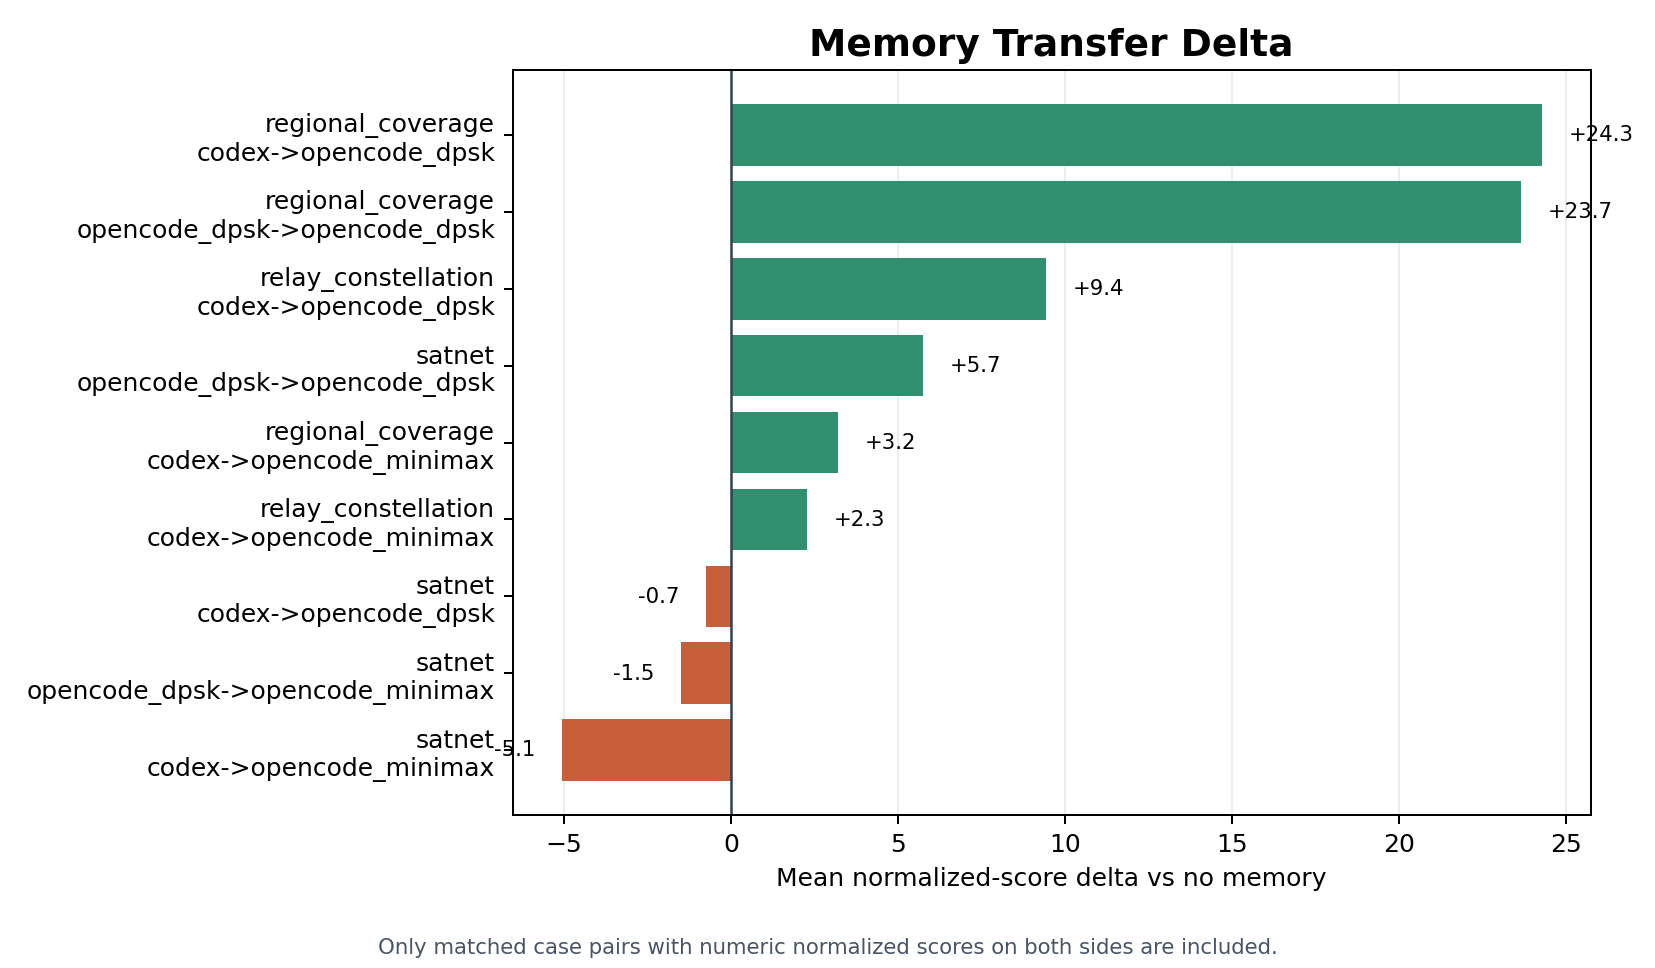
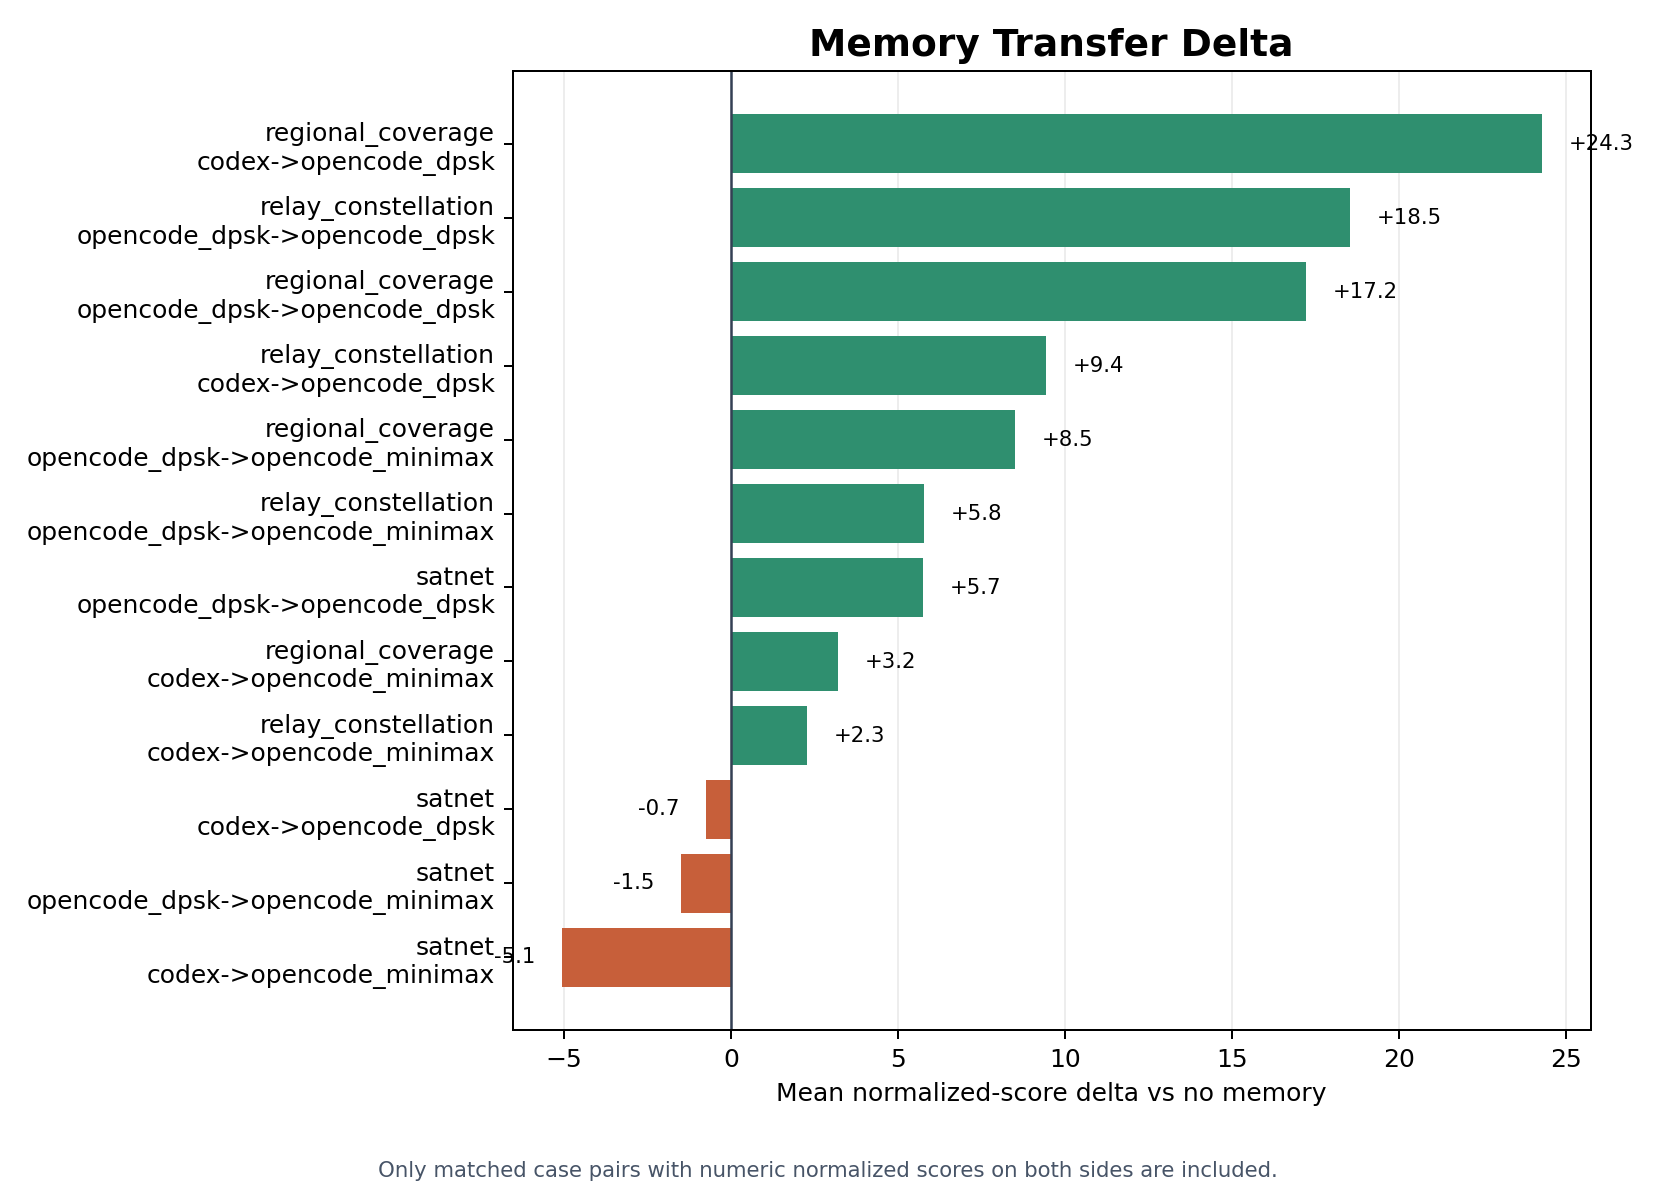
Finish memory_accumulation experiment

diff --git a/experiments/memory_accumulation/reports/relay_constellation.md b/experiments/memory_accumulation/reports/relay_constellation.md
@@ -15,8 +15,8 @@ Generated from the current `memory_accumulation` aggregate artifacts.
 | none | opencode_dpsk | 5 | 5 | 0 | 5 | 35.67 | success: 5 |
 | none | opencode_minimax | 5 | 5 | 0 | 4 | 0.0000 | success: 4, verifier_invalid: 1 |
 | opencode_dpsk | codex | 5 | 0 | 5 | 0 | 0.0000 | missing_artifact: 5 |
-| opencode_dpsk | opencode_dpsk | 5 | 0 | 5 | 0 | 0.0000 | missing_artifact: 5 |
-| opencode_dpsk | opencode_minimax | 5 | 0 | 5 | 0 | 0.0000 | missing_artifact: 5 |
+| opencode_dpsk | opencode_dpsk | 5 | 5 | 0 | 5 | 54.19 | success: 5 |
+| opencode_dpsk | opencode_minimax | 5 | 5 | 0 | 3 | 5.7833 | no_solution: 1, success: 3, verifier_invalid: 1 |
 | opencode_minimax | codex | 5 | 0 | 5 | 0 | 0.0000 | missing_artifact: 5 |
 | opencode_minimax | opencode_dpsk | 5 | 0 | 5 | 0 | 0.0000 | missing_artifact: 5 |
 | opencode_minimax | opencode_minimax | 5 | 0 | 5 | 0 | 0.0000 | missing_artifact: 5 |
@@ -60,16 +60,16 @@ Generated from the current `memory_accumulation` aggregate artifacts.
 | opencode_dpsk | codex | test | case_0003 | missing_artifact | missing_artifact | missing_artifact | - | - | 0 | - | - | - | - | - |
 | opencode_dpsk | codex | test | case_0004 | missing_artifact | missing_artifact | missing_artifact | - | - | 0 | - | - | - | - | - |
 | opencode_dpsk | codex | test | case_0005 | missing_artifact | missing_artifact | missing_artifact | - | - | 0 | - | - | - | - | - |
-| opencode_dpsk | opencode_dpsk | test | case_0001 | missing_artifact | missing_artifact | missing_artifact | - | - | 0 | - | - | - | - | - |
-| opencode_dpsk | opencode_dpsk | test | case_0002 | missing_artifact | missing_artifact | missing_artifact | - | - | 0 | - | - | - | - | - |
-| opencode_dpsk | opencode_dpsk | test | case_0003 | missing_artifact | missing_artifact | missing_artifact | - | - | 0 | - | - | - | - | - |
-| opencode_dpsk | opencode_dpsk | test | case_0004 | missing_artifact | missing_artifact | missing_artifact | - | - | 0 | - | - | - | - | - |
-| opencode_dpsk | opencode_dpsk | test | case_0005 | missing_artifact | missing_artifact | missing_artifact | - | - | 0 | - | - | - | - | - |
-| opencode_dpsk | opencode_minimax | test | case_0001 | missing_artifact | missing_artifact | missing_artifact | - | - | 0 | - | - | - | - | - |
-| opencode_dpsk | opencode_minimax | test | case_0002 | missing_artifact | missing_artifact | missing_artifact | - | - | 0 | - | - | - | - | - |
-| opencode_dpsk | opencode_minimax | test | case_0003 | missing_artifact | missing_artifact | missing_artifact | - | - | 0 | - | - | - | - | - |
-| opencode_dpsk | opencode_minimax | test | case_0004 | missing_artifact | missing_artifact | missing_artifact | - | - | 0 | - | - | - | - | - |
-| opencode_dpsk | opencode_minimax | test | case_0005 | missing_artifact | missing_artifact | missing_artifact | - | - | 0 | - | - | - | - | - |
+| opencode_dpsk | opencode_dpsk | test | case_0001 | present | success | valid | true | 7200.7 | 52.79 | 0.8611 | 0.4333 | 3 | 158.7 | 275.4 |
+| opencode_dpsk | opencode_dpsk | test | case_0002 | present | success | valid | true | 7200.4 | 65.36 | 0.9635 | 0.8444 | 6 | 128.5 | 227.9 |
+| opencode_dpsk | opencode_dpsk | test | case_0003 | present | success | valid | true | 7200.5 | 64.98 | 0.9489 | 0.8667 | 7 | 133.6 | 186.0 |
+| opencode_dpsk | opencode_dpsk | test | case_0004 | present | success | valid | true | 6594.2 | 42.31 | 0.7037 | 0.3067 | 4 | 147.5 | 193.0 |
+| opencode_dpsk | opencode_dpsk | test | case_0005 | present | success | valid | true | 7200.5 | 45.52 | 0.6866 | 0.5417 | 4 | 264.7 | 452.1 |
+| opencode_dpsk | opencode_minimax | test | case_0001 | present | success | valid | true | 5902.0 | 0 | 0 | 0 | 3 | - | - |
+| opencode_dpsk | opencode_minimax | test | case_0002 | present | success | valid | true | 5906.1 | 28.92 | 0.5508 | 0 | 3 | 114.0 | 150.4 |
+| opencode_dpsk | opencode_minimax | test | case_0003 | present | no_solution | no_solution | false | 104.9 | 0 | - | - | - | - | - |
+| opencode_dpsk | opencode_minimax | test | case_0004 | present | success | valid | true | 5472.9 | 0 | 0 | 0 | 3 | - | - |
+| opencode_dpsk | opencode_minimax | test | case_0005 | present | verifier_invalid | invalid | false | 5773.9 | 0 | 0 | 0 | 3 | - | - |
 | opencode_minimax | codex | test | case_0001 | missing_artifact | missing_artifact | missing_artifact | - | - | 0 | - | - | - | - | - |
 | opencode_minimax | codex | test | case_0002 | missing_artifact | missing_artifact | missing_artifact | - | - | 0 | - | - | - | - | - |
 | opencode_minimax | codex | test | case_0003 | missing_artifact | missing_artifact | missing_artifact | - | - | 0 | - | - | - | - | - |

diff --git a/experiments/memory_accumulation/reports/regional_coverage.md b/experiments/memory_accumulation/reports/regional_coverage.md
@@ -15,8 +15,8 @@ Generated from the current `memory_accumulation` aggregate artifacts.
 | none | opencode_dpsk | 5 | 5 | 0 | 5 | 35.79 | success: 5 |
 | none | opencode_minimax | 5 | 5 | 0 | 5 | 17.73 | success: 5 |
 | opencode_dpsk | codex | 5 | 0 | 5 | 0 | 0.0000 | missing_artifact: 5 |
-| opencode_dpsk | opencode_dpsk | 5 | 2 | 3 | 2 | 24.63 | missing_artifact: 3, success: 2 |
-| opencode_dpsk | opencode_minimax | 5 | 0 | 5 | 0 | 0.0000 | missing_artifact: 5 |
+| opencode_dpsk | opencode_dpsk | 5 | 5 | 0 | 5 | 53.00 | success: 5 |
+| opencode_dpsk | opencode_minimax | 5 | 5 | 0 | 5 | 26.23 | success: 5 |
 | opencode_minimax | codex | 5 | 0 | 5 | 0 | 0.0000 | missing_artifact: 5 |
 | opencode_minimax | opencode_dpsk | 5 | 0 | 5 | 0 | 0.0000 | missing_artifact: 5 |
 | opencode_minimax | opencode_minimax | 5 | 0 | 5 | 0 | 0.0000 | missing_artifact: 5 |
@@ -60,16 +60,16 @@ Generated from the current `memory_accumulation` aggregate artifacts.
 | opencode_dpsk | codex | test | case_0003 | missing_artifact | missing_artifact | missing_artifact | - | - | 0 | - | - | - | - |
 | opencode_dpsk | codex | test | case_0004 | missing_artifact | missing_artifact | missing_artifact | - | - | 0 | - | - | - | - |
 | opencode_dpsk | codex | test | case_0005 | missing_artifact | missing_artifact | missing_artifact | - | - | 0 | - | - | - | - |
-| opencode_dpsk | opencode_dpsk | test | case_0001 | missing_artifact | missing_artifact | missing_artifact | - | - | 0 | - | - | - | - |
+| opencode_dpsk | opencode_dpsk | test | case_0001 | present | success | valid | true | 7200.7 | 32.95 | 0.2728 | 0.2638 | 38 | 492.9 |
 | opencode_dpsk | opencode_dpsk | test | case_0002 | present | success | valid | true | 2619.1 | 59.86 | 0.7722 | 0.7738 | 64 | 496.7 |
 | opencode_dpsk | opencode_dpsk | test | case_0003 | present | success | valid | true | 7200.7 | 63.28 | 0.8058 | 0.8060 | 59 | 493.1 |
-| opencode_dpsk | opencode_dpsk | test | case_0004 | missing_artifact | missing_artifact | missing_artifact | - | - | 0 | - | - | - | - |
-| opencode_dpsk | opencode_dpsk | test | case_0005 | missing_artifact | missing_artifact | missing_artifact | - | - | 0 | - | - | - | - |
-| opencode_dpsk | opencode_minimax | test | case_0001 | missing_artifact | missing_artifact | missing_artifact | - | - | 0 | - | - | - | - |
-| opencode_dpsk | opencode_minimax | test | case_0002 | missing_artifact | missing_artifact | missing_artifact | - | - | 0 | - | - | - | - |
-| opencode_dpsk | opencode_minimax | test | case_0003 | missing_artifact | missing_artifact | missing_artifact | - | - | 0 | - | - | - | - |
-| opencode_dpsk | opencode_minimax | test | case_0004 | missing_artifact | missing_artifact | missing_artifact | - | - | 0 | - | - | - | - |
-| opencode_dpsk | opencode_minimax | test | case_0005 | missing_artifact | missing_artifact | missing_artifact | - | - | 0 | - | - | - | - |
+| opencode_dpsk | opencode_dpsk | test | case_0004 | present | success | valid | true | 7200.9 | 57.26 | 0.7325 | 0.7376 | 64 | 496.6 |
+| opencode_dpsk | opencode_dpsk | test | case_0005 | present | success | valid | true | 7200.6 | 51.66 | 0.6777 | 0.6496 | 64 | 487.6 |
+| opencode_dpsk | opencode_minimax | test | case_0001 | present | success | valid | true | 7192.5 | 12.10 | 0.0526 | 0.0567 | 64 | 492.9 |
+| opencode_dpsk | opencode_minimax | test | case_0002 | present | success | valid | true | 5097.6 | 45.23 | 0.4202 | 0.4203 | 21 | 496.7 |
+| opencode_dpsk | opencode_minimax | test | case_0003 | present | success | valid | true | 4195.8 | 8.7346 | 0.0049 | 0.0049 | 52 | 483.5 |
+| opencode_dpsk | opencode_minimax | test | case_0004 | present | success | valid | true | 7200.4 | 20.73 | 0 | 0 | 0 | 496.6 |
+| opencode_dpsk | opencode_minimax | test | case_0005 | present | success | valid | true | 5482.8 | 44.34 | 0.4342 | 0.3930 | 20 | 494.0 |
 | opencode_minimax | codex | test | case_0001 | missing_artifact | missing_artifact | missing_artifact | - | - | 0 | - | - | - | - |
 | opencode_minimax | codex | test | case_0002 | missing_artifact | missing_artifact | missing_artifact | - | - | 0 | - | - | - | - |
 | opencode_minimax | codex | test | case_0003 | missing_artifact | missing_artifact | missing_artifact | - | - | 0 | - | - | - | - |

diff --git a/experiments/memory_accumulation/reports/overview.md b/experiments/memory_accumulation/reports/overview.md
@@ -23,8 +23,8 @@ Generated from the current `memory_accumulation` aggregate artifacts.
 | none | opencode_dpsk | 15 | 15 | 0 | 15 | 43.90 | success: 15 |
 | none | opencode_minimax | 15 | 15 | 0 | 13 | 18.42 | success: 13, verifier_invalid: 2 |
 | opencode_dpsk | codex | 15 | 0 | 15 | 0 | 0.0000 | missing_artifact: 15 |
-| opencode_dpsk | opencode_dpsk | 15 | 7 | 8 | 7 | 30.20 | missing_artifact: 8, success: 7 |
-| opencode_dpsk | opencode_minimax | 15 | 5 | 10 | 4 | 12.01 | missing_artifact: 10, success: 4, verifier_invalid: 1 |
+| opencode_dpsk | opencode_dpsk | 15 | 15 | 0 | 15 | 57.72 | success: 15 |
+| opencode_dpsk | opencode_minimax | 15 | 15 | 0 | 12 | 22.68 | no_solution: 1, success: 12, verifier_invalid: 2 |
 | opencode_minimax | codex | 15 | 0 | 15 | 0 | 0.0000 | missing_artifact: 15 |
 | opencode_minimax | opencode_dpsk | 15 | 0 | 15 | 0 | 0.0000 | missing_artifact: 15 |
 | opencode_minimax | opencode_minimax | 15 | 0 | 15 | 0 | 0.0000 | missing_artifact: 15 |
@@ -34,8 +34,11 @@ Generated from the current `memory_accumulation` aggregate artifacts.
 | Benchmark | Memory Source | Harness | Pairs | No-Memory Mean | Memory Mean | Delta | Improved | Regressed |
 | --- | --- | --- | ---: | ---: | ---: | ---: | ---: | ---: |
 | regional_coverage | codex | opencode_dpsk | 5 | 35.79 | 60.08 | 24.28 | 4 | 1 |
-| regional_coverage | opencode_dpsk | opencode_dpsk | 2 | 37.92 | 61.57 | 23.66 | 2 | 0 |
+| relay_constellation | opencode_dpsk | opencode_dpsk | 5 | 35.67 | 54.19 | 18.53 | 3 | 2 |
+| regional_coverage | opencode_dpsk | opencode_dpsk | 5 | 35.79 | 53.00 | 17.21 | 4 | 1 |
 | relay_constellation | codex | opencode_dpsk | 5 | 35.67 | 45.09 | 9.4184 | 2 | 3 |
+| regional_coverage | opencode_dpsk | opencode_minimax | 5 | 17.73 | 26.23 | 8.5027 | 3 | 2 |
+| relay_constellation | opencode_dpsk | opencode_minimax | 5 | 0.0000 | 5.7833 | 5.7833 | 1 | 0 |
 | satnet | opencode_dpsk | opencode_dpsk | 5 | 60.23 | 65.97 | 5.7422 | 3 | 2 |
 | regional_coverage | codex | opencode_minimax | 5 | 17.73 | 20.94 | 3.2117 | 4 | 1 |
 | relay_constellation | codex | opencode_minimax | 5 | 0.0000 | 2.2633 | 2.2633 | 1 | 0 |
